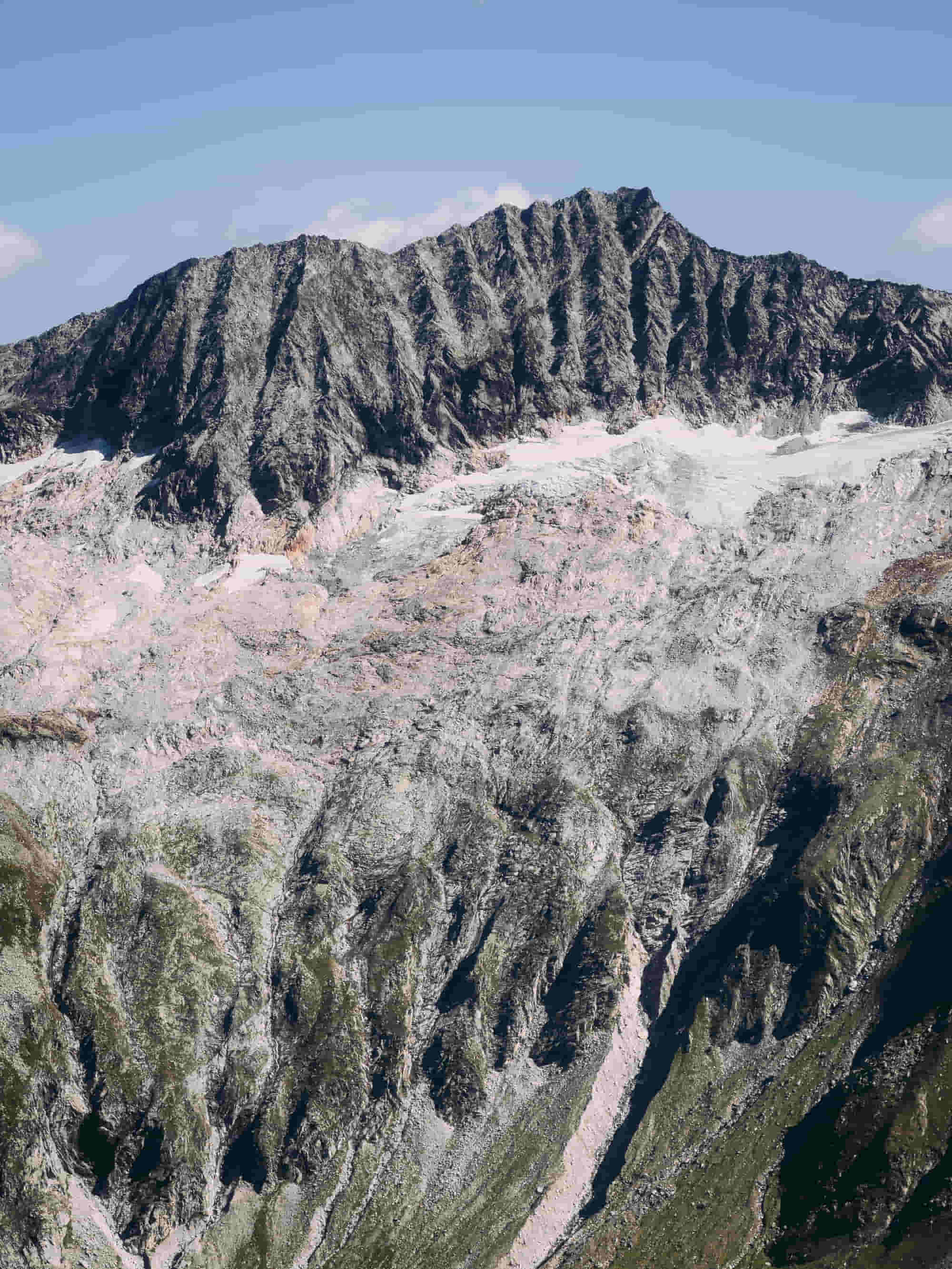
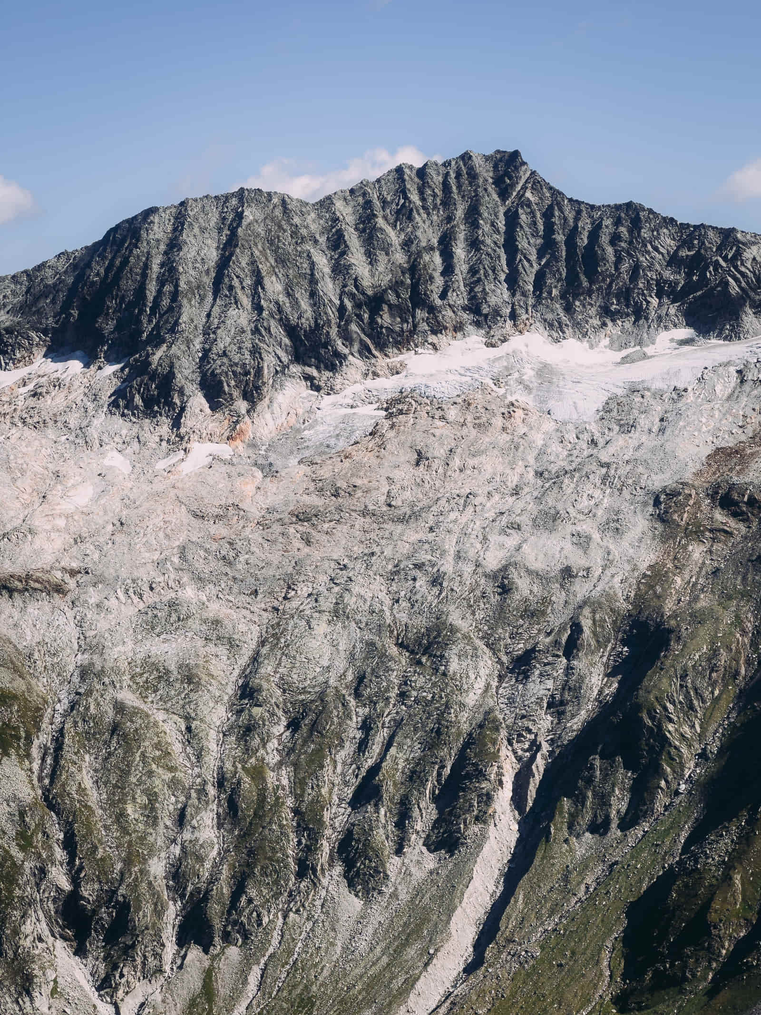
Use options for compressor, add save to file method & add/remove comments

Changed region(s): [[0.0, 0.1547, 1.0, 1.0], [0.9375, 0.8973, 0.9688, 0.9283]]

diff --git a/src/ImageCompressor.ts b/src/ImageCompressor.ts
@@ -1,20 +1,27 @@
 import sharp from 'sharp'
 
+type CompressorOptions = {
+  maxSizeKB?: number
+  width?: number
+}
+
 /**
- * add.
+ * Compress image with to a maximum size in KB and a set width.
  *
- * @param image add
- * @param maxSizeKB add
- * @returns add
+ * @param image - Image in buffer format
+ * @param param1 - Object with options listed below
+ * @param param1.maxSizeKB - Maximum file size of compressed image
+ * @param param1.width - Set width of compressed image
+ * @returns Compressed Image in buffer data
  */
-export async function imageCompressor(image: Buffer, maxSizeKB: number) {
+export async function imageCompressor(image: Buffer, { maxSizeKB = 400, width = 1200}: CompressorOptions = {}): Promise<Buffer> {
 
   let quality = 80
   const minQuality = 24
   const step = 4
 
   while (quality >= minQuality) {
-    const output = await sharp(image).resize({ width: 2000 }).jpeg({ quality, mozjpeg: true, chromaSubsampling: '4:4:4'}).toBuffer()
+    const output = await sharp(image).resize({ width: width }).jpeg({ quality, mozjpeg: true, chromaSubsampling: '4:4:4'}).toBuffer()
 
     console.log(quality, output.length / 1024)
     if (output.length / 1024 <= maxSizeKB) {

diff --git a/src/OptiPic.ts b/src/OptiPic.ts
@@ -115,22 +115,25 @@ export class OptiPic {
   }
 
   /**
-   * ADD.
+   * Initiate compression of image.
    */
   public async compress() {
-    console.log('Compressor here!')
+
     const image = this.imageData
 
     if(image === undefined) {
       throw new Error('No image has been loaded')
     }
-    const compressed = await imageCompressor(image, 200)
-    await writeFile('compressed.jpg', compressed)
-    const metadata = await sharp(compressed).metadata()
-    console.log(metadata.size)
-    // Default 400kb
-    // Call compressor
-    // Compressor returns new Buffer
-    // imageCompressor(this.imageData, 4000)
+
+    this.saveImageToFile(await imageCompressor(image, { width: 1600}))
+  }
+
+  /**
+   * Saves the image as file in root.
+   *
+   * @param image - Image as buffer data
+   */
+  private saveImageToFile(image: Buffer) {
+    writeFile('compressed.jpg', image)
   }
 }
